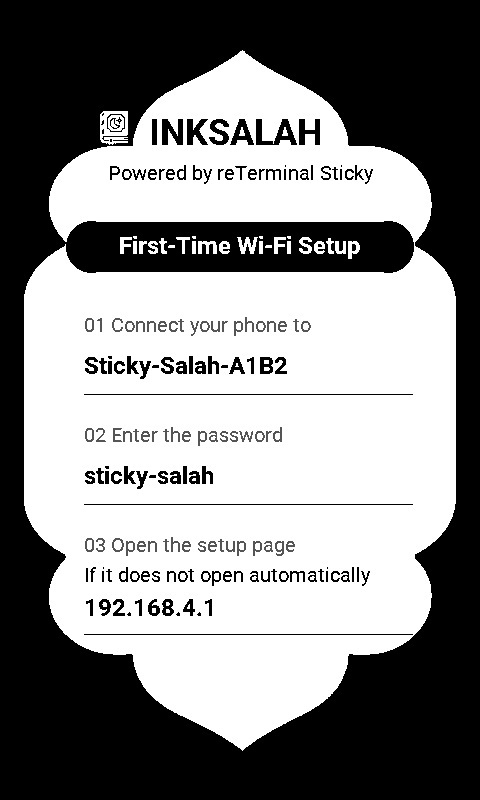
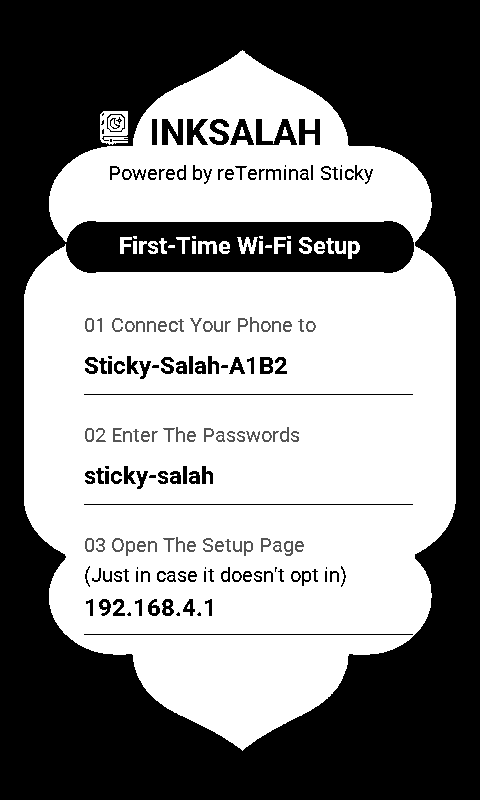
fix: update Wi-Fi setup instructions

diff --git a/src/ui/prayer_pages.cpp b/src/ui/prayer_pages.cpp
@@ -239,14 +239,14 @@ void prayer_page_render_setup(Canvas &canvas, const char *ap_ssid,
     ui::centered(canvas, center, brand_y + 48, "Powered by reTerminal Sticky", 20);
     ui::pill(canvas, center - 174, portrait ? 222 : 145, 348, 50,
               can_return ? "Wi-Fi Setup" : "First-Time Wi-Fi Setup", true, 24);
-    const char *steps[] = {"01 Connect your phone to", "02 Enter the password", "03 Open the setup page"};
+    const char *steps[] = {"01 Connect Your Phone to", "02 Enter The Passwords", "03 Open The Setup Page"};
     const char *values[] = {ap_ssid, ap_password, "192.168.4.1"};
     for (int index = 0; index < 3; ++index) {
         const int left = portrait ? 84 : 80 + index * 225;
         const int y = portrait ? 316 + index * 110 : 223;
         canvas.draw_text_sized(left, y, steps[index], 20, GrayLevel::DarkGray);
         if (portrait && index == 2) {
-            canvas.draw_text_sized(left, y + 30, "If it does not open automatically", 20);
+            canvas.draw_text_sized(left, y + 30, "(Just in case it doesn't opt in)", 20);
         }
         char fitted[80] = {};
         ui::fit(values[index], fitted, sizeof(fitted), portrait ? 330 : 208,

diff --git a/test/prayer_pages_test.cpp b/test/prayer_pages_test.cpp
@@ -80,6 +80,10 @@ int main()
         }
     }
     canvas.set_rotation(CanvasRotation::Deg90Clockwise);
+    for (const char *text : {"01 Connect Your Phone to", "02 Enter The Passwords",
+                             "03 Open The Setup Page", "(Just in case it doesn't opt in)"}) {
+        assert(Canvas::text_width(text, 20) <= 328);
+    }
     prayer_page_render_setup(canvas, "Sticky-Salah-A1B2", "sticky-salah", false);
     const std::vector<uint8_t> first_setup = storage;
     assert(!prayer_page_setup_back_action_at(240, 690, false));
